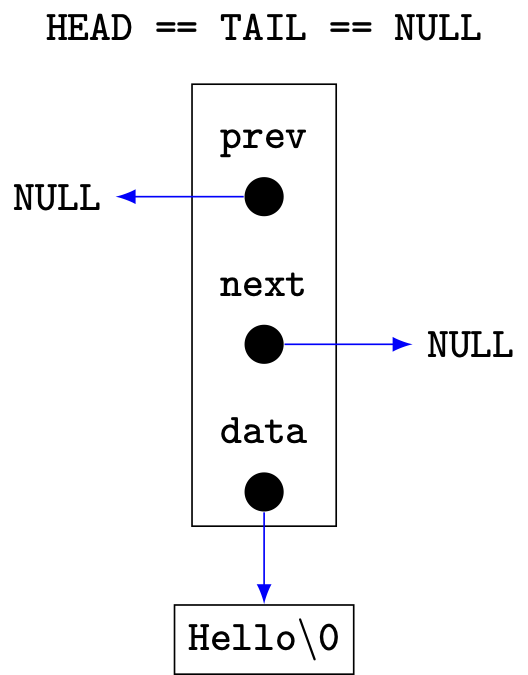
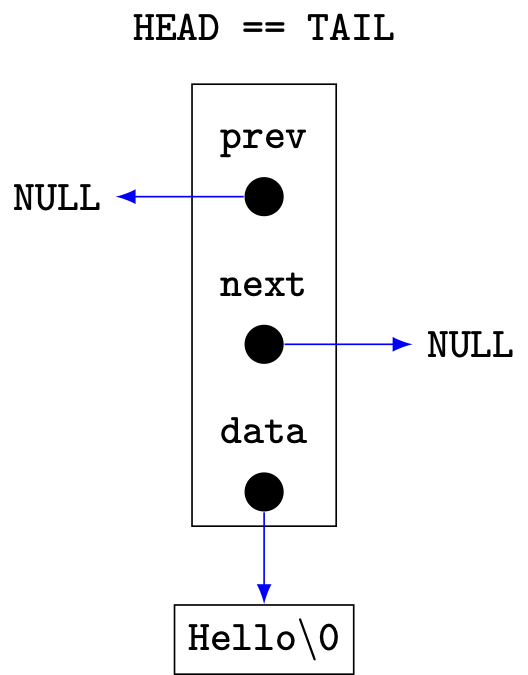
Small correction.

Changed region(s): [[0.0909, 0.0, 0.9091, 0.0622]]

diff --git a/2024/figures/doubly_ll/case1_after.tex b/2024/figures/doubly_ll/case1_after.tex
@@ -40,7 +40,7 @@
 \begin{document}
 
 \begin{tikzpicture}
-  \pic at (0,0) {llnode=node_ptr/{HEAD == TAIL == NULL}};
+  \pic at (0,0) {llnode=node_ptr/{HEAD == TAIL}};
 
   \node[NULL] at (-1.75, 1.25) (prev NULL) {NULL};
   \node[NULL] at ( 1.75, 0) (next NULL) {NULL};
